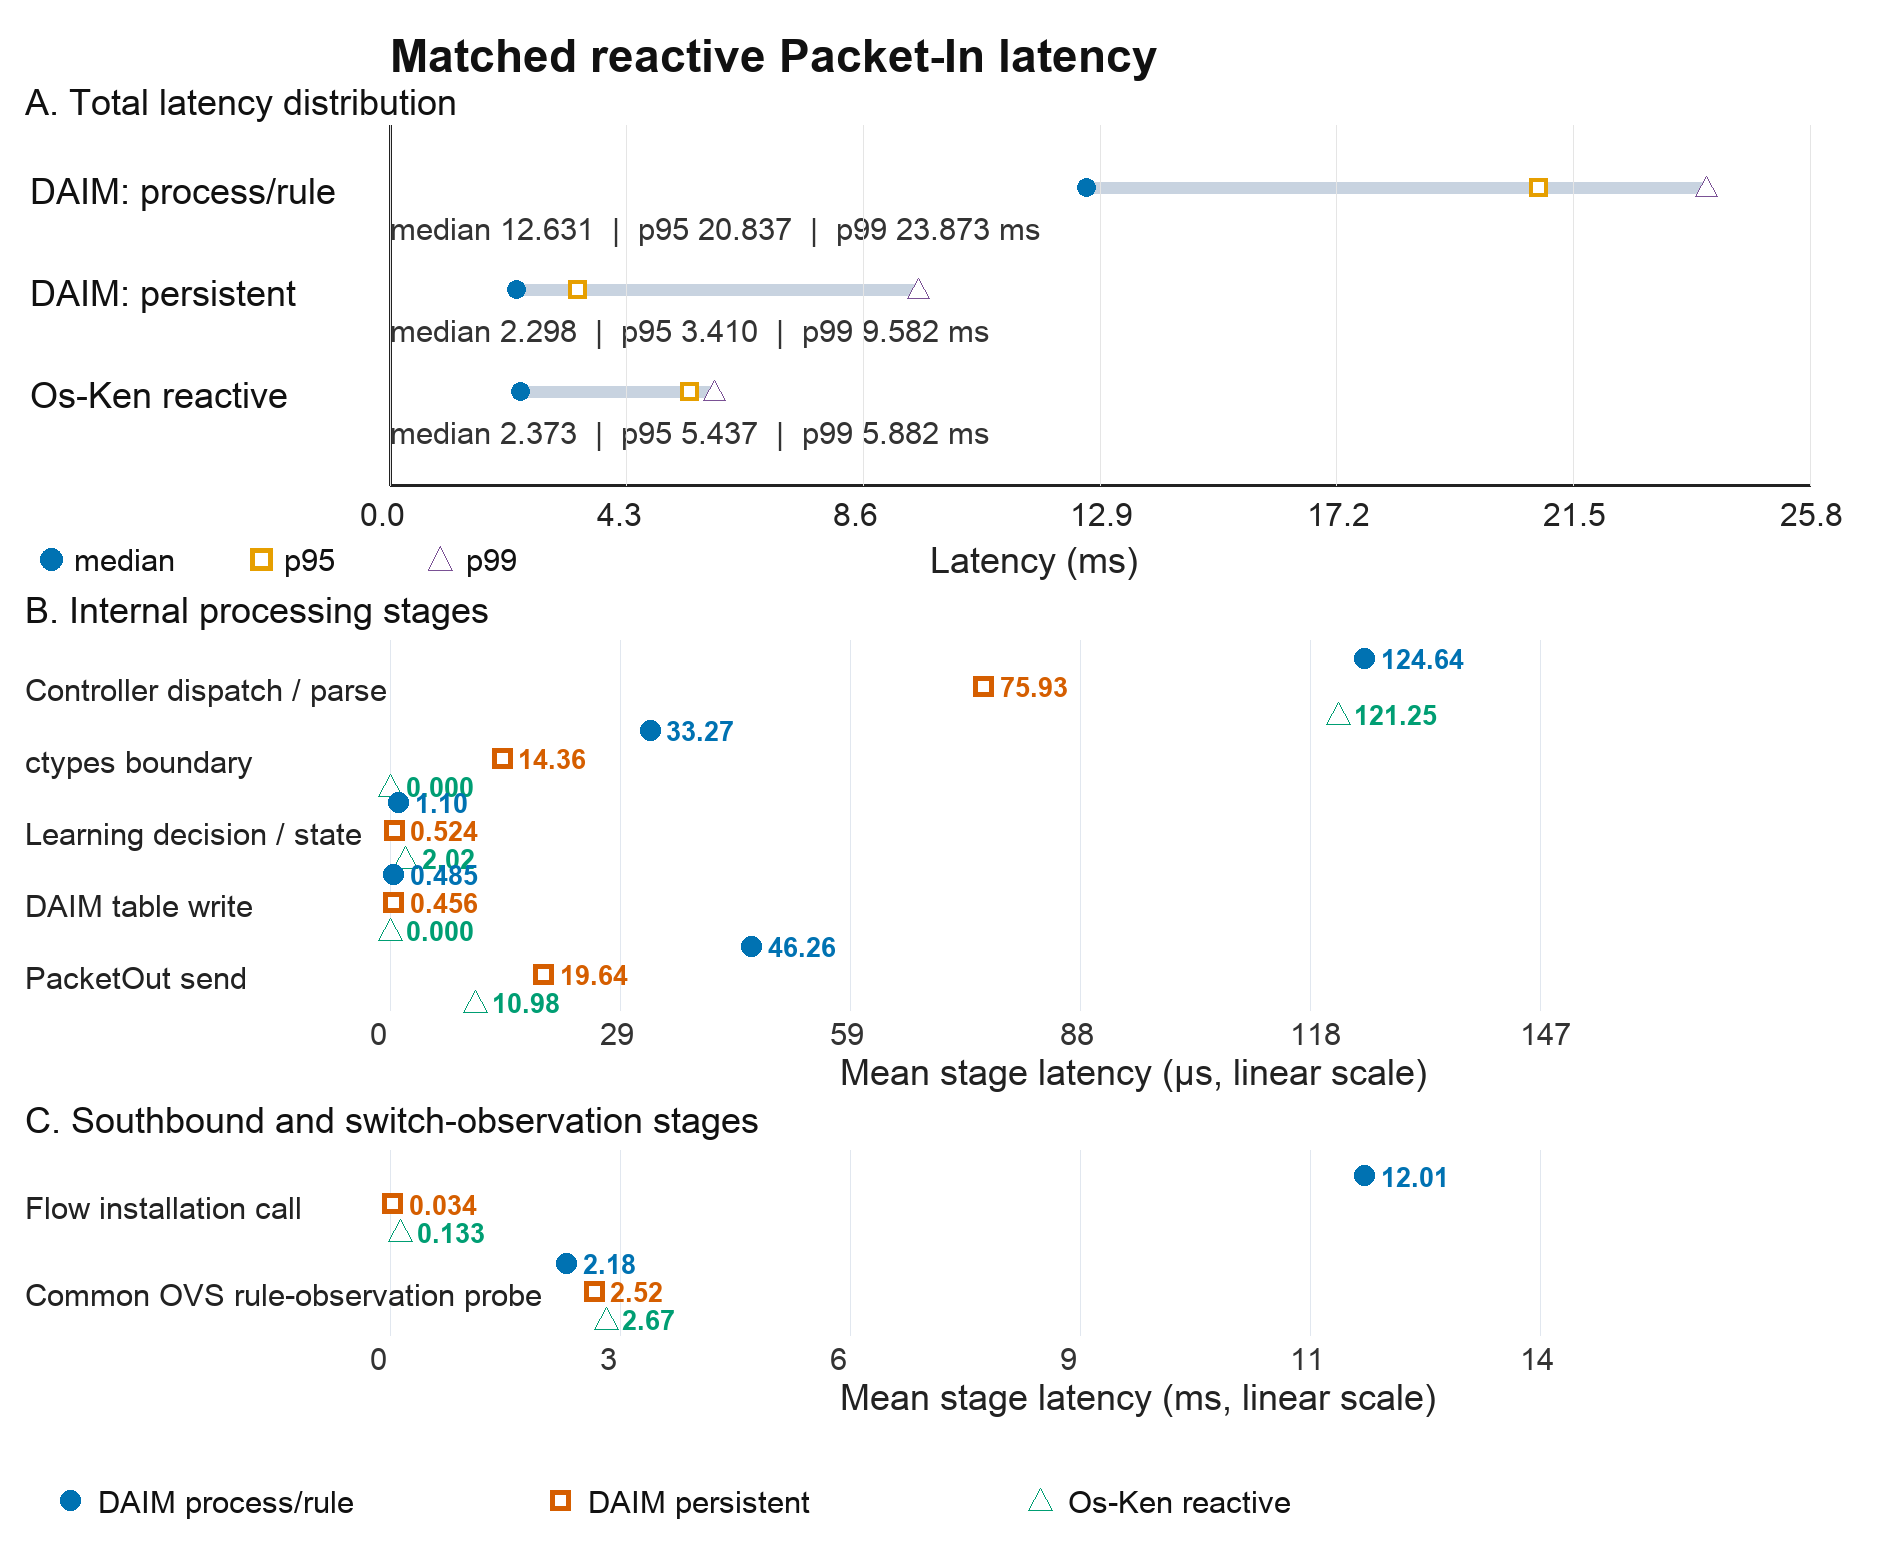
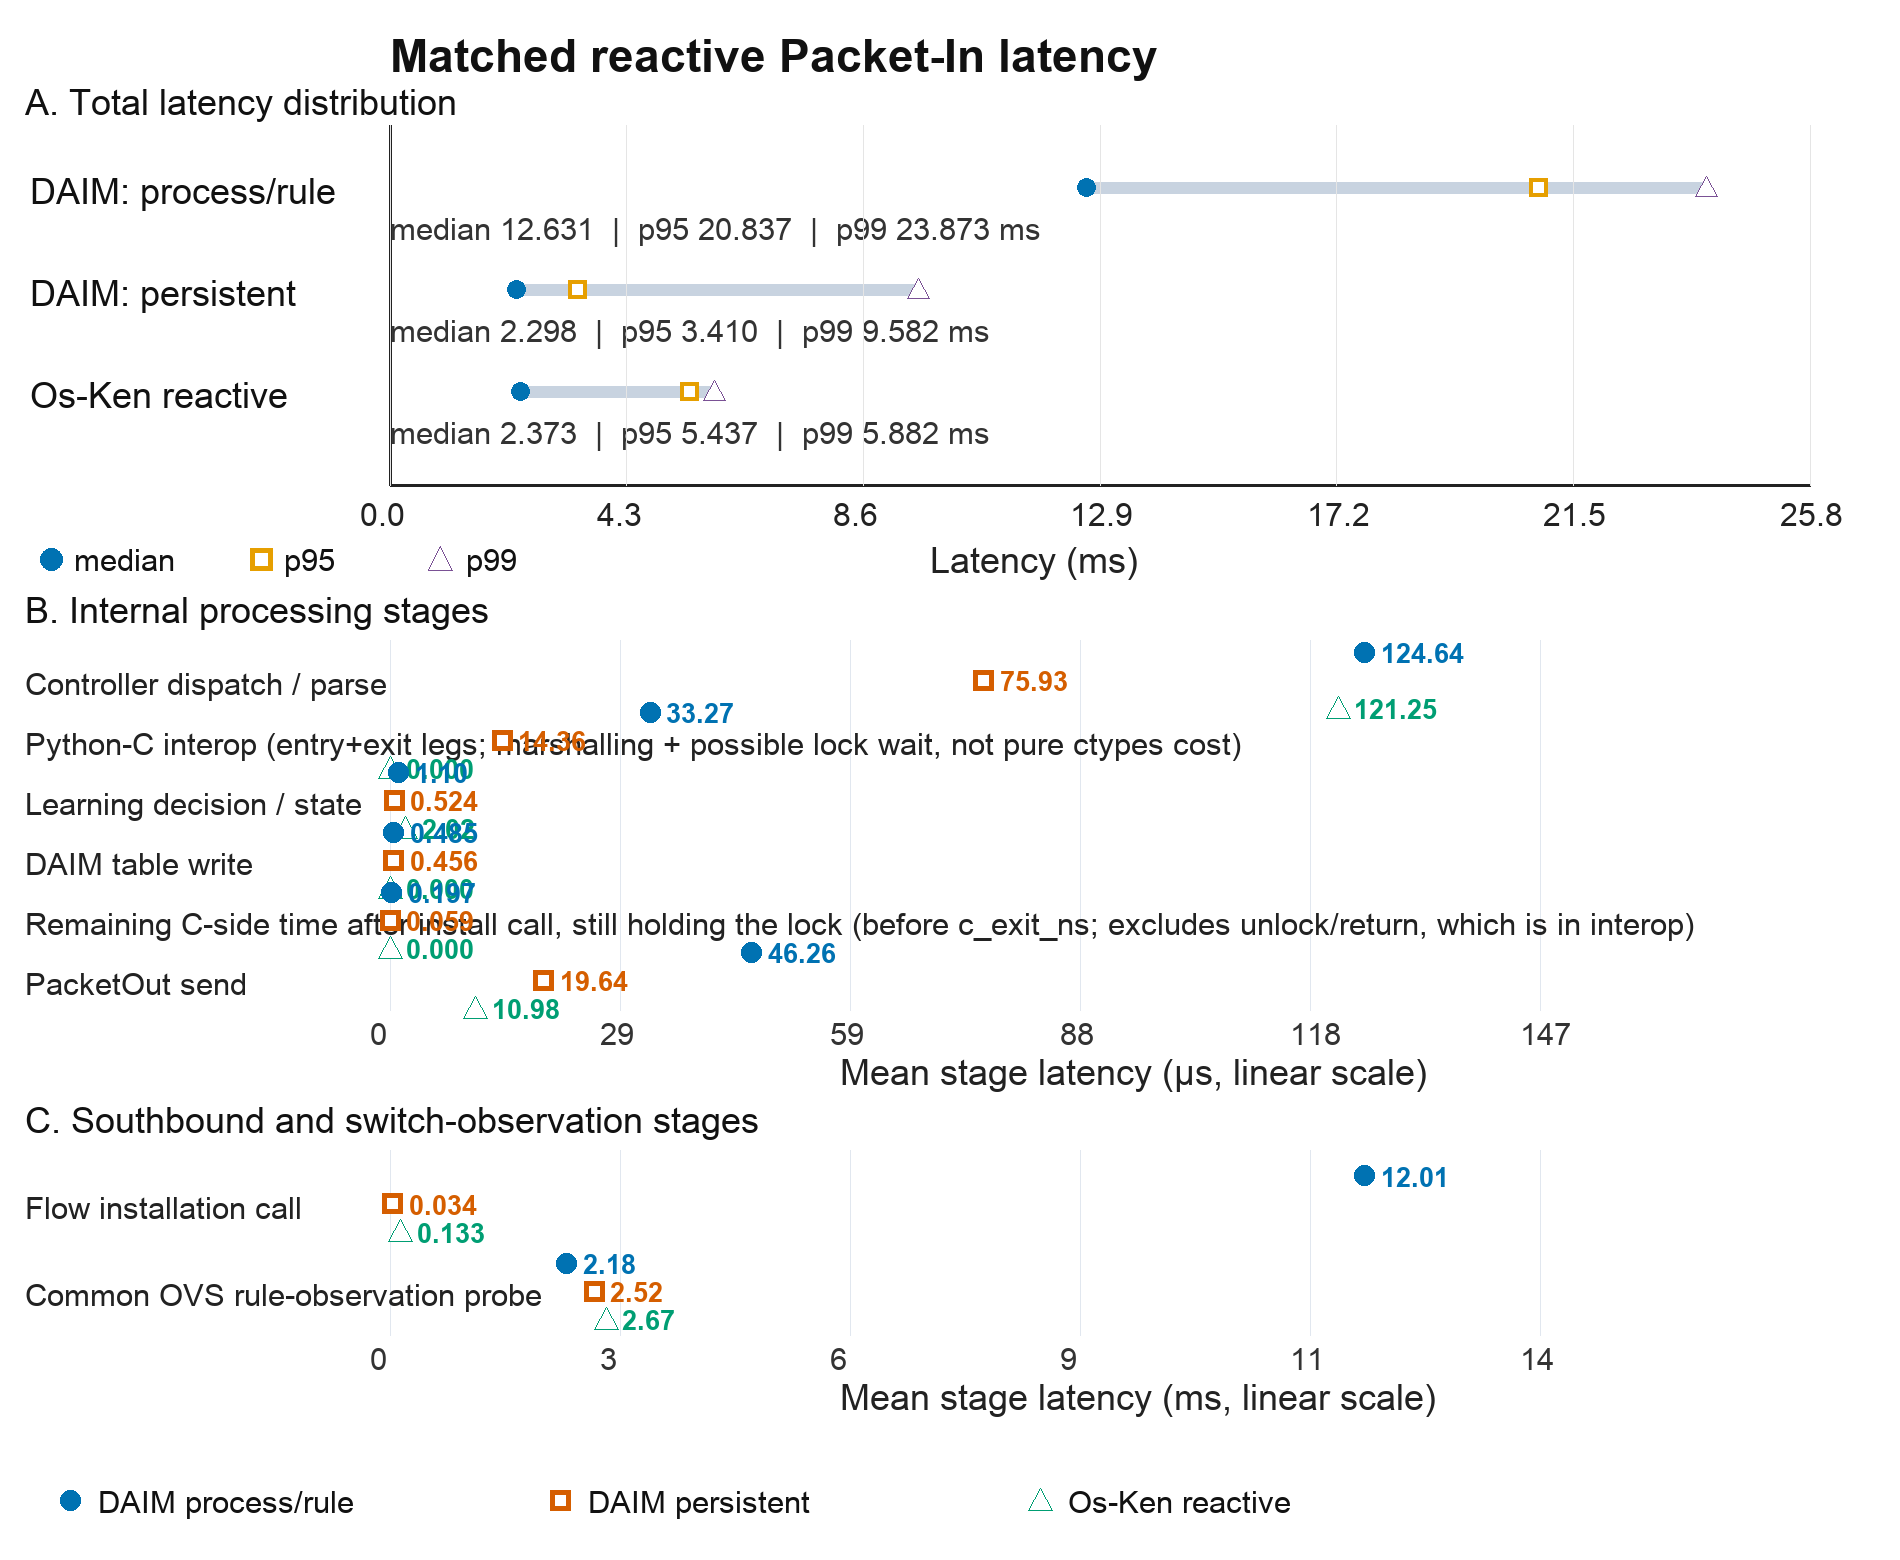
Fix ctypes-boundary label and add missing c_exit_tail stage
The "interop" stage combined both Python<->C crossing legs but was
labeled "ctypes boundary", implying pure ctypes-call cost; it also
includes data marshalling and any pthread_mutex_lock wait
(daim_learning_app.c:171/176). Relabeled to describe what it actually
measures.

The 7-stage breakdown also omitted the small C-side interval between
c_install_done_ns and c_exit_ns, so the stage sum did not equal the
published total. Added it as its own "c_exit_tail" stage; verified
per-trial in exact integer nanoseconds (before rounding) that the
8-stage sum now equals the total exactly for every trial in both DAIM
adapter modes, and that the change is a pure relabel/complete-the-sum
fix with no other numeric changes.

Local commit only -- not pushed, no new tag or Zenodo release. This
repo's tagged v1.1.0 release (DOI 10.5281/zenodo.21855229) predates
commit 989c752 and does not include this file in its current form;
that gap is unrelated to and not resolved by this commit. Any
corrective release (proposed v1.1.1) needs separate explicit
authorization before tagging/publishing.

Changed region(s): [[0.0, 0.4308, 0.9005, 0.6462], [0.7142, 0.4, 0.7763, 0.4615]]

diff --git a/analysis/packetin_latency_breakdown_analysis.py b/analysis/packetin_latency_breakdown_analysis.py
@@ -24,13 +24,14 @@ LABELS = {
     "persistent": "DAIM: persistent",
     "reactive_osken": "Os-Ken reactive",
 }
-STAGES = ["controller", "interop", "decision", "table_write", "install_call", "packetout", "confirm"]
+STAGES = ["controller", "interop", "decision", "table_write", "install_call", "c_exit_tail", "packetout", "confirm"]
 STAGE_LABELS = {
     "controller": "Controller dispatch / parse",
-    "interop": "ctypes boundary",
+    "interop": "Python-C interop (entry+exit legs; marshalling + possible lock wait, not pure ctypes cost)",
     "decision": "Learning decision / state",
     "table_write": "DAIM table write",
     "install_call": "Flow installation call",
+    "c_exit_tail": "Remaining C-side time after install call, still holding the lock (before c_exit_ns; excludes unlock/return, which is in interop)",
     "packetout": "PacketOut send",
     "confirm": "Common OVS rule-observation probe",
 }
@@ -58,6 +59,7 @@ def stage_deltas_us(row):
             "decision": decision_done - parsed,
             "table_write": 0,
             "install_call": install_done - decision_done,
+            "c_exit_tail": 0,
             "packetout": packetout_done - install_done,
             "confirm": confirmed - packetout_done if confirmed is not None else None,
             "total": confirmed - start if confirmed is not None else None,
@@ -79,6 +81,7 @@ def stage_deltas_us(row):
             "decision": decision_done - c_entry,
             "table_write": table_done - decision_done,
             "install_call": install_done - table_done,
+            "c_exit_tail": c_exit - install_done,
             "packetout": packetout_done - post_ctypes,
             "confirm": confirmed - packetout_done if confirmed is not None else None,
             "total": confirmed - dispatch if confirmed is not None else None,
@@ -192,7 +195,7 @@ def draw_chart(summary, path):
                 draw.text((x+16,yy-14),f"{value:.3f}" if value<1 else f"{value:.2f}",fill=mode_colors[mi],font=font(27, True))
         draw.text((left+450,pbottom+42),f"Mean stage latency ({unit}, linear scale)",fill="#222222",font=label_font)
 
-    stage_panel("B. Internal processing stages", ["controller","interop","decision","table_write","packetout"], "µs", 1.0, 650, 1010)
+    stage_panel("B. Internal processing stages", ["controller","interop","decision","table_write","c_exit_tail","packetout"], "µs", 1.0, 650, 1010)
     stage_panel("C. Southbound and switch-observation stages", ["install_call","confirm"], "ms", 1000.0, 1160, 1335)
 
     ly = 1500
